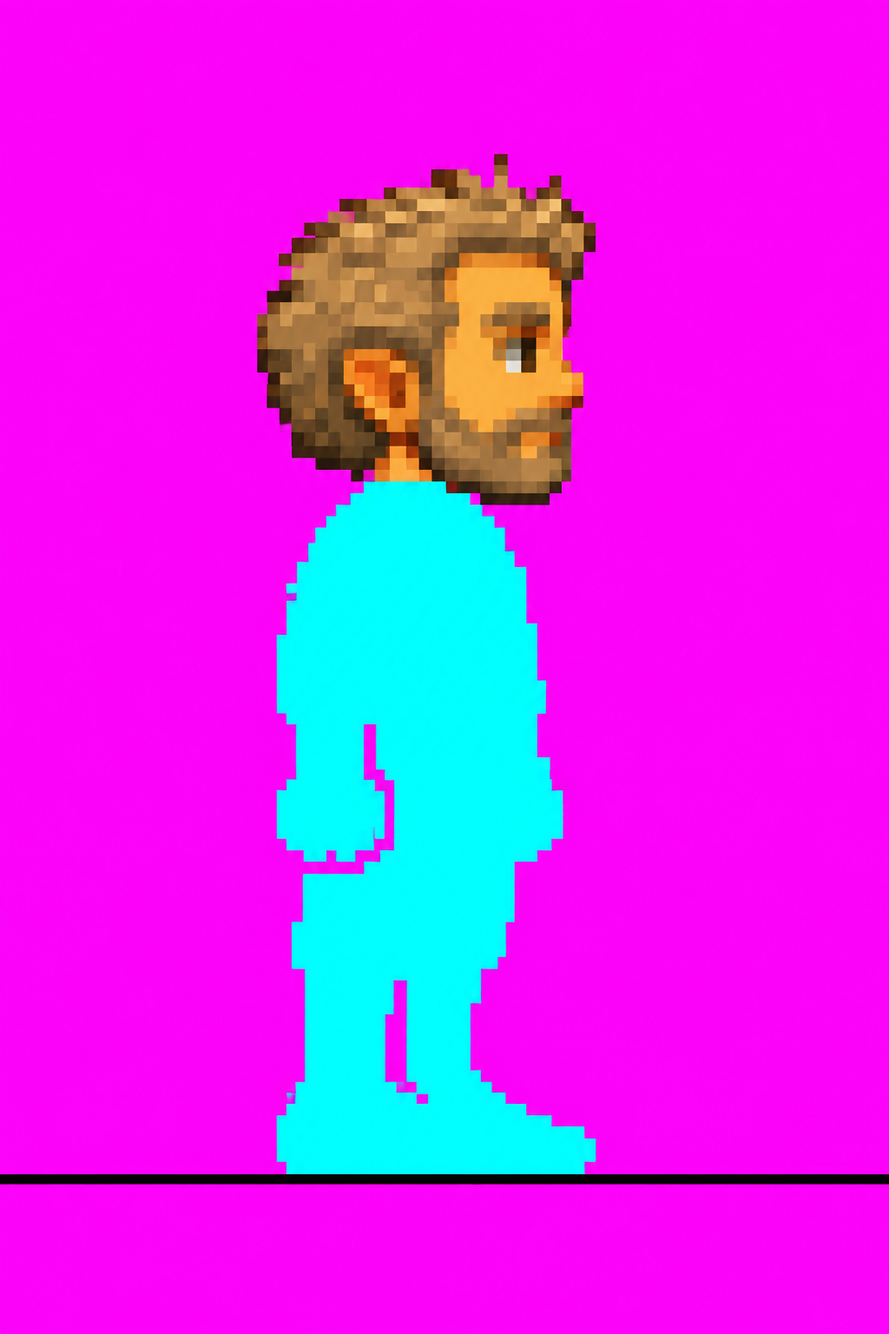
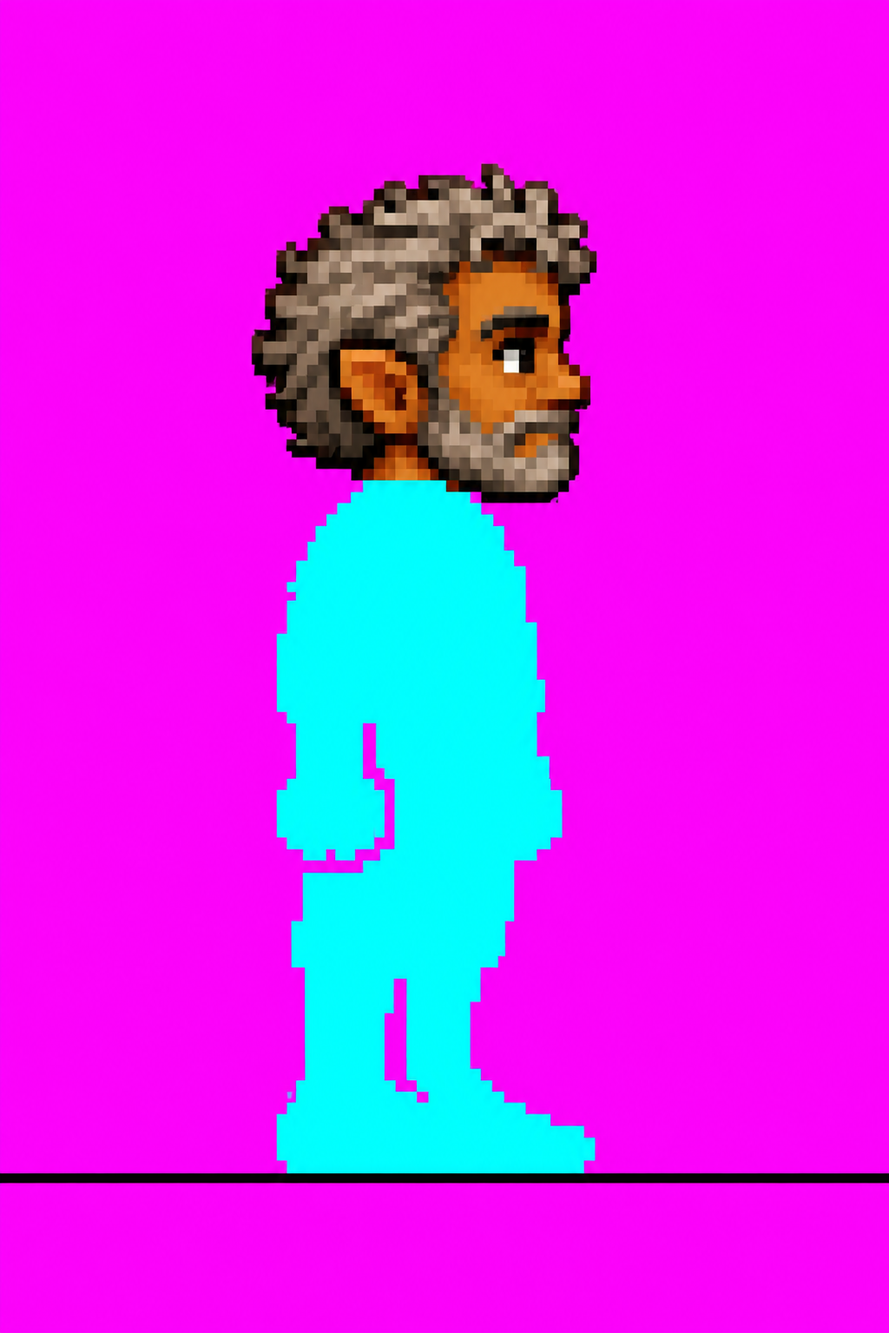
Versión 96: cabezas nuevas de Porru, Juan Pablo y Edo (ChatGPT), con su tono de piel en todo el cuerpo
Claude-Session: https://claude.ai/code/session_016LDX8s9ZoDhMCEDmCMU4bZ

diff --git a/public/index.html b/public/index.html
@@ -221,7 +221,7 @@ var SB_KEY = 'sb_publishable_1-eGqPkYOPKsW-ZEtUBo7A_16RQQGdK';
 var ATAJO = 'La Otra Comunidad';
 var STEPS_PER_KM = 1350, TOTAL_KM = 115;
 var LUGAR = {nombre:'Madrid', lat:40.43, lon:-3.81};
-var M = {"tramos": [[{"src": "assets/tramos/t1v_0.webp?v=162fa4d7", "y": -192, "v": 0.4, "hd": 3, "espejo": true}, {"src": "assets/tramos/t1v_1.webp?v=4642bb2a", "y": 209, "v": 1.0, "hd": 3, "espejo": true}], [{"src": "assets/tramos/t2v_0.webp?v=2ac7595f", "y": -192, "v": 0.4, "hd": 3, "espejo": true}, {"src": "assets/tramos/t2v_1.webp?v=07659e6a", "y": 209, "v": 1.0, "hd": 3, "espejo": true}], [{"src": "assets/tramos/t3v_0.webp?v=fb33aab2", "y": -192, "v": 0.4, "hd": 3, "espejo": true}, {"src": "assets/tramos/t3v_1.webp?v=42750449", "y": 209, "v": 1.0, "hd": 3, "espejo": true}], [{"src": "assets/tramos/t4v_0.webp?v=c2718a9c", "y": -192, "v": 0.4, "hd": 3, "espejo": true}, {"src": "assets/tramos/t4v_1.webp?v=0b370de7", "y": 209, "v": 1.0, "hd": 3, "espejo": true}], [{"src": "assets/tramos/t5_0.webp?v=f06aecc3", "y": 0, "v": 0.08}, {"src": "assets/tramos/t5_1.webp?v=f3abdd6c", "y": 31, "v": 0.3}, {"src": "assets/tramos/t5_2.webp?v=5110b3be", "y": 85, "v": 0.55}, {"src": "assets/tramos/t5_3.webp?v=a1aa4814", "y": 192, "v": 1.0}], [{"src": "assets/tramos/t6v_0.webp?v=380a0d06", "y": -192, "v": 0.4, "hd": 3, "espejo": true}, {"src": "assets/tramos/t6v_1.webp?v=ff66a92b", "y": 209, "v": 1.0, "hd": 3, "espejo": true}], [{"src": "assets/tramos/t7b_0.webp?v=4c93d6ac", "y": -192, "v": 0.4, "hd": 3, "espejo": true}, {"src": "assets/tramos/t7b_1.webp?v=16982fdd", "y": 210, "v": 1.0, "hd": 3, "espejo": true}], [{"src": "assets/tramos/t8b_0.webp?v=e0185a6c", "y": -192, "v": 0.4, "hd": 3, "espejo": true}, {"src": "assets/tramos/t8b_1.webp?v=5989f657", "y": 210, "v": 1.0, "hd": 3, "espejo": true}]], "arturo": ["assets/pj/arturo_normal.webp?v=7db8d380", "assets/pj/arturo_lluvia.webp?v=410e29f0", "assets/pj/arturo_noche.webp?v=a85f8b09", "assets/pj/arturo_calor.webp?v=5248314d"], "vecinos": ["assets/pj/vecino_1.webp?v=8c5299d1", "assets/pj/vecino_2.webp?v=0ad454f5", "assets/pj/vecino_3.webp?v=7460ffb8", "assets/pj/vecino_4.webp?v=a9dbcc5b"], "faces": "assets/pj/caras9.webp?v=749b1655", "logo": "assets/logo.webp?v=6e5698e6", "mj": {"pan": "assets/mj/zurron_pan.webp?v=eef983d0", "manta": "assets/mj/zurron_manta.webp?v=496c23db", "cuerda": "assets/mj/zurron_cuerda.webp?v=01c52897", "cantimplora": "assets/mj/zurron_cantimplora.webp?v=834316a1", "queso": "assets/mj/zurron_queso.webp?v=7897f985", "mapa": "assets/mj/zurron_mapa.webp?v=77a52314", "farol": "assets/mj/zurron_farol.webp?v=503f7f85", "pipa": "assets/mj/zurron_pipa.webp?v=ff72de42", "sillon": "assets/mj/zurron_sillon.webp?v=e2de97af", "reloj": "assets/mj/zurron_reloj.webp?v=f2e9850f", "cucharas": "assets/mj/zurron_cucharas.webp?v=ddf4903c", "paraguas": "assets/mj/zurron_paraguas.webp?v=29a8c29a", "jarron": "assets/mj/zurron_jarron.webp?v=0e426668", "libraco": "assets/mj/zurron_libraco.webp?v=d1d0c91f", "arbol": "assets/mj/arbol.webp?v=1d1e130a", "jinete1": "assets/mj/jinete1.webp?v=1bdb694e", "jinete2": "assets/mj/jinete2.webp?v=3dc1bbb4", "anillo": "assets/mj/anillo.webp?v=f785c169", "seta1": "assets/mj/seta1.webp?v=9166bdf3", "seta2": "assets/mj/seta2.webp?v=93212779", "seta3": "assets/mj/seta3.webp?v=a212aa81", "perro1": "assets/mj/perro1.webp?v=69bf8c3a", "perro2": "assets/mj/perro2.webp?v=b3a10435", "perro3": "assets/mj/perro3.webp?v=a5e4e2f7", "hoyo": "assets/mj/hoyo.webp?v=d29f43a1", "balsa1": "assets/mj/balsa1.webp?v=d45a7f5d", "balsa2": "assets/mj/balsa2.webp?v=d2719116", "rio": "assets/mj/rio.webp?v=aafc6b10", "muelle": "assets/mj/muelle.webp?v=592eaa57", "sombra": "assets/mj/sombra.webp?v=0652e012", "juncos": "assets/mj/juncos.webp?v=74e1fdc4"}, "papiro": "assets/papiro.webp?v=abe066ba", "andar": {"src": "assets/pj/arturo_andar.webp?v=7e62a290", "n": 6, "fw": 53.0, "h": 74}, "mapa": {"src": "assets/mapa2.webp?v=ce21c701", "w": 1200, "h": 4050, "ruta": [[596, 4048], [596, 4013], [456, 3532], [694, 3372], [745, 3094], [604, 2913], [623, 2816], [640, 2699], [655, 2640], [627, 2506], [603, 2143], [639, 1918], [609, 1630], [679, 1534], [656, 1331], [660, 1230], [677, 1154], [726, 1037], [658, 973], [578, 732], [641, 561], [507, 433], [615, 315], [654, 70], [654, 0]], "lugares": [[0, "Bols\u00f3n Cerrado", 4013], [5, "Delagua", 3532], [15, "Colinas Verdes", 3372], [35, "Bosque Cerrado", 3094], [55, "Atajo", 2913], [75, "La granja", 2816], [90, "Calzada", 2699], [110, "Balsadera", 2640], [115, "Cricava", 2506], [120, "La Cerca", 2143], [130, "Bosque Viejo", 1918], [145, "El Tornasauce", 1630], [150, "Casa de Tom Bombadil", 1534], [175, "Quebradas de los T\u00famulos", 1331], [200, "Camino del Este", 1230], [210, "Bree", 1154], [225, "Bosque de Chet", 1037], [250, "Pantanos de Moscagua", 973], [370, "Cima de los Vientos", 732], [530, "Puente \u00daltimo", 561], [600, "Landas de los Trolls", 433], [720, "Vado del Bruinen", 315], [740, "Rivendel", 70]]}, "equipo": {"capa": "assets/eq/capa.webp?v=0122b549", "sombrero": "assets/eq/sombrero.webp?v=f7dfac1a", "panuelo_sam": "assets/eq/panuelo_sam.webp?v=1a80a564", "cazo": "assets/eq/cazo.webp?v=22f7f48c", "broche": "assets/eq/broche.webp?v=6109e8ac", "panuelo_rojo": "assets/eq/panuelo_rojo.webp?v=fd15a308", "cantimplora_cinto": "assets/eq/cantimplora_cinto.webp?v=00c887d2", "pluma": "assets/eq/pluma.webp?v=1d6b2dd4", "gafas": "assets/eq/gafas.webp?v=0f0b85f1", "tiara": "assets/eq/tiara.webp?v=7de8e48f"}, "prologo": {"video": "assets/prologo/prologo.mp4?v=6f226176", "poster": "assets/prologo/poster.webp?v=0afee73e", "casa": "assets/prologo/casa.webp?v=e13a1dd5"}, "ilustraciones": ["assets/prologo/forja.webp?v=3a138e40", "assets/prologo/anillo.webp?v=0773b67f", "assets/prologo/guerra.webp?v=3dbb76a0", "assets/prologo/caido.webp?v=3f00fc99", "assets/prologo/rio.webp?v=f0525166", "assets/prologo/cueva.webp?v=53a6de1b", "assets/prologo/puerta.webp?v=9be18752", "assets/prologo/camino.webp?v=8554a997"], "npc": {"mago": ["assets/pj/mago_normal.webp?v=2dcb7716", "assets/pj/mago_lluvia.webp?v=3e964785", "assets/pj/mago_noche.webp?v=f6641a57", "assets/pj/mago_calor.webp?v=c90085e7"], "sombrero_azul": ["assets/pj/sombrero_azul_normal.webp?v=49dc044e", "assets/pj/sombrero_azul_lluvia.webp?v=dd90bf2a", "assets/pj/sombrero_azul_noche.webp?v=cf98f05d", "assets/pj/sombrero_azul_calor.webp?v=d65dd5f8"]}, "libro": {"0": "assets/libro/p1.webp?v=ef869ff9", "1": "assets/libro/p2.webp?v=6100887a", "2": "assets/libro/p3.webp?v=f87fd195", "3": "assets/libro/p4.webp?v=8c0c0014", "4": "assets/libro/p5.webp?v=a47588b7", "5": "assets/libro/p6.webp?v=7950004b", "6": "assets/libro/p7.webp?v=d7e44576", "7": "assets/libro/p8.webp?v=6766a419"}, "ropa": {"pantalon": "assets/pj/ropa_pantalon.webp?v=c61a7146", "capa": "assets/pj/ropa_capa.webp?v=e1faa8bf", "capa_f": "assets/pj/ropa_capa_f.webp?v=0c709b85", "capaFrame": {"fw": 84, "ox": -31}}, "props": {"senal": "assets/props/senal.webp?v=e7b2f572", "ovejas": "assets/props/ovejas.webp?v=311f376f", "carretilla": "assets/props/carretilla.webp?v=056e52f2", "piedra": "assets/props/piedra.webp?v=b27db386", "lena": "assets/props/lena.webp?v=4165f85f", "colmenas": "assets/props/colmenas.webp?v=b70b723c", "valla": "assets/props/valla.webp?v=4d295390", "setas": "assets/props/setas.webp?v=ce1dae4d", "pozo": "assets/props/pozo.webp?v=037c838e", "banco": "assets/props/banco.webp?v=c317202b", "zorro": "assets/props/zorro.webp?v=2bfaa8b8", "carro_heno": "assets/props/carro_heno.webp?v=d90f13e9"}, "escenas": [{"km": 9, "capas": [{"src": "assets/tramos/e09v_0.webp?v=9b272767", "y": -192, "v": 0.4, "hd": 3, "espejo": true}, {"src": "assets/tramos/e09v_1.webp?v=626f2e28", "y": 209, "v": 1.0, "hd": 3, "espejo": true}]}, {"km": 25, "capas": [{"src": "assets/tramos/e25_0.webp?v=f874360c", "y": -192, "v": 0.4, "hd": 3, "espejo": true}, {"src": "assets/tramos/e25_1.webp?v=dc8516e2", "y": 209, "v": 1.0, "hd": 3, "espejo": true}]}, {"km": 45, "capas": [{"src": "assets/tramos/e45_0.webp?v=0c496962", "y": -192, "v": 0.4, "hd": 3, "espejo": true}, {"src": "assets/tramos/e45_1.webp?v=f8b71963", "y": 209, "v": 1.0, "hd": 3, "espejo": true}]}, {"km": 65, "capas": [{"src": "assets/tramos/e65_0.webp?v=a730a4cb", "y": -192, "v": 0.4, "hd": 3, "espejo": true}, {"src": "assets/tramos/e65_1.webp?v=af390ea6", "y": 209, "v": 1.0, "hd": 3, "espejo": true}]}, {"km": 80, "capas": [{"src": "assets/tramos/e80_0.webp?v=2ae90a84", "y": -192, "v": 0.4, "hd": 3, "espejo": true}, {"src": "assets/tramos/e80_1.webp?v=656134e8", "y": 209, "v": 1.0, "hd": 3, "espejo": true}]}, {"km": 100, "capas": [{"src": "assets/tramos/e100_0.webp?v=96b4d4c3", "y": -192, "v": 0.4, "hd": 3, "espejo": true}, {"src": "assets/tramos/e100_1.webp?v=ff63ade0", "y": 209, "v": 1.0, "hd": 3, "espejo": true}]}, {"km": 113, "capas": [{"src": "assets/tramos/e113_0.webp?v=2f8c2840", "y": -192, "v": 0.4, "hd": 3, "espejo": true}, {"src": "assets/tramos/e113_1.webp?v=343cbb60", "y": 209, "v": 1.0, "hd": 3, "espejo": true}]}], "objetos": {"casa": "assets/mj/obj_casa.webp?v=11955867", "pipa": "assets/mj/obj_pipa.webp?v=9310f0ce", "hoja": "assets/mj/obj_hoja.webp?v=a4fb68a5", "estrella": "assets/mj/obj_estrella.webp?v=2718a702", "cayado": "assets/mj/obj_cayado.webp?v=346609ad", "cesta": "assets/mj/obj_cesta.webp?v=d1e05991", "farol": "assets/mj/obj_farol.webp?v=3c67590e", "balsa": "assets/mj/obj_balsa.webp?v=fcd81db0"}, "ropaIco": {"capa": "assets/eq/capa.webp?v=0122b549", "capa_verde": "assets/eq/capa_verde.webp?v=b5cc373a", "capa_granate": "assets/eq/capa_granate.webp?v=ec0bde53", "capa_gris": "assets/eq/capa_gris.webp?v=d2a75931", "pant_verde": "assets/eq/pant_verde.webp?v=1b3a8a49", "pant_azul": "assets/eq/pant_azul.webp?v=873e7563", "pant_gris": "assets/eq/pant_gris.webp?v=dc39d40e", "pant_mostaza": "assets/eq/pant_mostaza.webp?v=a53bb81c"}, "andarPJ": {"fer": {"src": "assets/pj/andar_fer.webp?v=a1960a01", "pantalon": "assets/pj/ropa_pantalon_fer.webp?v=ddc157ee", "capa": "assets/pj/ropa_capa_fer.webp?v=4ec3bc47", "capa_f": "assets/pj/ropa_capa_f_fer.webp?v=16a7a4cc", "n": 8, "ms": 160, "vel": 0.0356, "dx": [0, -3, 2, 2, -3, -3, 3, 4]}, "patri": {"src": "assets/pj/andar_patri.webp?v=6ce8bf24", "pantalon": "assets/pj/ropa_pantalon_patri.webp?v=3f92d97d", "capa": "assets/pj/ropa_capa_patri.webp?v=69ac1f75", "capa_f": "assets/pj/ropa_capa_f_patri.webp?v=a9eb8c68", "n": 8, "ms": 160, "vel": 0.0356, "dx": [0, -3, 2, 2, -3, -3, 3, 4]}, "juanpablo": {"src": "assets/pj/andar_juanpablo.webp?v=c89365f6", "pantalon": "assets/pj/ropa_pantalon_juanpablo.webp?v=eabcf1f7", "capa": "assets/pj/ropa_capa_juanpablo.webp?v=ef786ba2", "capa_f": "assets/pj/ropa_capa_f_juanpablo.webp?v=084549cb", "n": 8, "ms": 160, "vel": 0.0356, "dx": [0, 0, 0, 0, 0, 0, 0, 0]}, "arturo": {"src": "assets/pj/andar_arturo.webp?v=c15a4cbf", "pantalon": "assets/pj/ropa_pantalon_arturo.webp?v=5fb87995", "capa": "assets/pj/ropa_capa_arturo.webp?v=0658b58c", "capa_f": "assets/pj/ropa_capa_f_arturo.webp?v=f4b0b94a", "n": 8, "ms": 160, "vel": 0.0344, "dx": [0, -4, 0, 4, 0, -4, 0, 4]}, "edo": {"src": "assets/pj/andar_edo.webp?v=874feaf0", "pantalon": "assets/pj/ropa_pantalon_edo.webp?v=be0ca919", "capa": "assets/pj/ropa_capa_edo.webp?v=16ef3acf", "capa_f": "assets/pj/ropa_capa_f_edo.webp?v=50e3d11f", "n": 8, "ms": 160, "vel": 0.0344, "dx": [0, -4, 0, 4, 0, -4, 0, 4]}}, "menu": {"forja": "assets/menu/forja.webp?v=32eaa4c1", "anillo": "assets/menu/anillo.webp?v=2edff033", "chispas": {"src": "assets/menu/chispas.webp?v=7a0e8284", "n": 6, "fw": 125, "h": 262}, "herrero": {"src": "assets/menu/herrero.webp?v=8d4a16d2", "n": 4, "fw": 320, "h": 295}}, "ui": {"redondo": "assets/ui/redondo.webp?v=553a38ab", "redondo_on": "assets/ui/redondo_on.webp?v=d47c1e86", "largo": "assets/ui/largo.webp?v=21b6a8ab", "largo_on": "assets/ui/largo_on.webp?v=b4d3082f", "i_mapa": "assets/ui/i_mapa.webp?v=baf5a951", "i_libro": "assets/ui/i_libro.webp?v=65e306af", "i_comunidad": "assets/ui/i_comunidad.webp?v=ba394914", "i_zurron": "assets/ui/i_zurron.webp?v=801f3a01", "i_sync": "assets/ui/i_sync.webp?v=56462d84", "i_hoja": "assets/ui/i_hoja.webp?v=f8fe9299", "placa_pasos": "assets/ui/placa_pasos.webp?v=12bec8e1", "destellos": "assets/ui/destellos.webp?v=b74326dc", "fondo_menu": "assets/ui/fondo_menu.webp?v=0cf7211a", "hoja_menu": "assets/ui/hoja_menu.webp?v=82f13f93"}, "facesN": 9, "quietoPJ": {"fer": {"src": "assets/pj/quieto_fer.webp?v=2d287b87", "pantalon": "assets/pj/ropa_pantalon_quieto_fer.webp?v=2a5fa9ec", "capa": "assets/pj/ropa_capa_quieto_fer.webp?v=748a63a8", "capa_f": "assets/pj/ropa_capa_f_quieto_fer.webp?v=9d786b24", "n": 4, "ms": 450}, "patri": {"src": "assets/pj/quieto_patri.webp?v=e8935790", "pantalon": "assets/pj/ropa_pantalon_quieto_patri.webp?v=b4969e48", "capa": "assets/pj/ropa_capa_quieto_patri.webp?v=26634d11", "capa_f": "assets/pj/ropa_capa_f_quieto_patri.webp?v=328aff4d", "n": 4, "ms": 450}, "adrian": {"src": "assets/pj/quieto_adrian.webp?v=b81deb89", "pantalon": "assets/pj/ropa_pantalon_quieto_adrian.webp?v=5525cad1", "capa": "assets/pj/ropa_capa_quieto_adrian.webp?v=a22c0b8a", "capa_f": "assets/pj/ropa_capa_f_quieto_adrian.webp?v=6c51806e", "n": 4, "ms": 450}, "carlos": {"src": "assets/pj/quieto_carlos.webp?v=c5a30670", "pantalon": "assets/pj/ropa_pantalon_quieto_carlos.webp?v=b82e99a6", "capa": "assets/pj/ropa_capa_quieto_carlos.webp?v=5d3f98c6", "capa_f": "assets/pj/ropa_capa_f_quieto_carlos.webp?v=d8920044", "n": 4, "ms": 450}, "juanpablo": {"src": "assets/pj/quieto_juanpablo.webp?v=6e704838", "pantalon": "assets/pj/ropa_pantalon_quieto_juanpablo.webp?v=cd8fb44e", "capa": "assets/pj/ropa_capa_quieto_juanpablo.webp?v=c7daa765", "capa_f": "assets/pj/ropa_capa_f_quieto_juanpablo.webp?v=383cb623", "n": 4, "ms": 450}, "arturo": {"src": "assets/pj/quieto_arturo.webp?v=a137794f", "pantalon": "assets/pj/ropa_pantalon_quieto_arturo.webp?v=41e5d86c", "capa": "assets/pj/ropa_capa_quieto_arturo.webp?v=4d687a5b", "capa_f": "assets/pj/ropa_capa_f_quieto_arturo.webp?v=31b81915", "n": 4, "ms": 450}, "edo": {"src": "assets/pj/quieto_edo.webp?v=25a809fa", "pantalon": "assets/pj/ropa_pantalon_quieto_edo.webp?v=ec1ecdb7", "capa": "assets/pj/ropa_capa_quieto_edo.webp?v=f5d0127d", "capa_f": "assets/pj/ropa_capa_f_quieto_edo.webp?v=ff69cc07", "n": 4, "ms": 450}}, "fp": [{"tramo": 3, "fondo": "assets/fp/bosque_fondo.webp?v=d94309cc", "delante": "assets/fp/bosque_delante.webp?v=4903fead", "manos": {"src": "assets/fp/manos.webp?v=7ba225f5", "n": 4, "fw": 325, "h": 434}, "fuga": [0.5, 0.56], "luces": [[0.47, 0.565], [0.51, 0.548], [0.545, 0.565], [0.455, 0.575]], "hasta": 45}], "escenaElfos": ["assets/escenas/elfos1.webp?v=821cfc4d", "assets/escenas/elfos2.webp?v=a89595ed", "assets/escenas/elfos3.webp?v=2f3b37c6"], "entreactos": {"1": {"video": "assets/entreactos/acto1.mp4?v=24d497d1", "poster": "assets/entreactos/acto1.webp?v=4f4a3739"}}, "capas": {"capas": {"cuerpo": "assets/pj/capas/cuerpo.webp?v=66200e3b", "capa": "assets/pj/capas/capa.webp?v=2d14e53d", "pantalon": "assets/pj/capas/pantalon.webp?v=fc330ced", "mochila": "assets/pj/capas/mochila.webp?v=8a00b540", "cantimplora": "assets/pj/capas/cantimplora.webp?v=6987245d"}, "cabezas": {"arturo": "assets/pj/capas/cab_arturo.webp?v=1ed4cbca", "fer": "assets/pj/capas/cab_fer.webp?v=3dbdbf4b", "patri": "assets/pj/capas/cab_patri.webp?v=3274e893", "edo": "assets/pj/capas/cab_edo.webp?v=49a540d3", "carlos": "assets/pj/capas/cab_carlos.webp?v=8df36d33", "porru": "assets/pj/capas/cab_porru.webp?v=e6b0800e", "adrian": "assets/pj/capas/cab_adrian.webp?v=f71e7843", "rodri": "assets/pj/capas/cab_rodri.webp?v=dce1015d", "juanpablo": "assets/pj/capas/cab_juanpablo.webp?v=2577ae26"}, "piel": {"arturo": [247, 153, 63], "fer": [248, 168, 80], "patri": [244, 164, 68], "edo": [227, 149, 65], "carlos": [242, 166, 70], "porru": [235, 155, 73], "adrian": [237, 163, 84], "rodri": [248, 179, 100], "juanpablo": [241, 170, 69]}, "piel_cuerpo": [252, 173, 121]}};
+var M = {"tramos": [[{"src": "assets/tramos/t1v_0.webp?v=162fa4d7", "y": -192, "v": 0.4, "hd": 3, "espejo": true}, {"src": "assets/tramos/t1v_1.webp?v=4642bb2a", "y": 209, "v": 1.0, "hd": 3, "espejo": true}], [{"src": "assets/tramos/t2v_0.webp?v=2ac7595f", "y": -192, "v": 0.4, "hd": 3, "espejo": true}, {"src": "assets/tramos/t2v_1.webp?v=07659e6a", "y": 209, "v": 1.0, "hd": 3, "espejo": true}], [{"src": "assets/tramos/t3v_0.webp?v=fb33aab2", "y": -192, "v": 0.4, "hd": 3, "espejo": true}, {"src": "assets/tramos/t3v_1.webp?v=42750449", "y": 209, "v": 1.0, "hd": 3, "espejo": true}], [{"src": "assets/tramos/t4v_0.webp?v=c2718a9c", "y": -192, "v": 0.4, "hd": 3, "espejo": true}, {"src": "assets/tramos/t4v_1.webp?v=0b370de7", "y": 209, "v": 1.0, "hd": 3, "espejo": true}], [{"src": "assets/tramos/t5_0.webp?v=f06aecc3", "y": 0, "v": 0.08}, {"src": "assets/tramos/t5_1.webp?v=f3abdd6c", "y": 31, "v": 0.3}, {"src": "assets/tramos/t5_2.webp?v=5110b3be", "y": 85, "v": 0.55}, {"src": "assets/tramos/t5_3.webp?v=a1aa4814", "y": 192, "v": 1.0}], [{"src": "assets/tramos/t6v_0.webp?v=380a0d06", "y": -192, "v": 0.4, "hd": 3, "espejo": true}, {"src": "assets/tramos/t6v_1.webp?v=ff66a92b", "y": 209, "v": 1.0, "hd": 3, "espejo": true}], [{"src": "assets/tramos/t7b_0.webp?v=4c93d6ac", "y": -192, "v": 0.4, "hd": 3, "espejo": true}, {"src": "assets/tramos/t7b_1.webp?v=16982fdd", "y": 210, "v": 1.0, "hd": 3, "espejo": true}], [{"src": "assets/tramos/t8b_0.webp?v=e0185a6c", "y": -192, "v": 0.4, "hd": 3, "espejo": true}, {"src": "assets/tramos/t8b_1.webp?v=5989f657", "y": 210, "v": 1.0, "hd": 3, "espejo": true}]], "arturo": ["assets/pj/arturo_normal.webp?v=7db8d380", "assets/pj/arturo_lluvia.webp?v=410e29f0", "assets/pj/arturo_noche.webp?v=a85f8b09", "assets/pj/arturo_calor.webp?v=5248314d"], "vecinos": ["assets/pj/vecino_1.webp?v=8c5299d1", "assets/pj/vecino_2.webp?v=0ad454f5", "assets/pj/vecino_3.webp?v=7460ffb8", "assets/pj/vecino_4.webp?v=a9dbcc5b"], "faces": "assets/pj/caras9.webp?v=749b1655", "logo": "assets/logo.webp?v=6e5698e6", "mj": {"pan": "assets/mj/zurron_pan.webp?v=eef983d0", "manta": "assets/mj/zurron_manta.webp?v=496c23db", "cuerda": "assets/mj/zurron_cuerda.webp?v=01c52897", "cantimplora": "assets/mj/zurron_cantimplora.webp?v=834316a1", "queso": "assets/mj/zurron_queso.webp?v=7897f985", "mapa": "assets/mj/zurron_mapa.webp?v=77a52314", "farol": "assets/mj/zurron_farol.webp?v=503f7f85", "pipa": "assets/mj/zurron_pipa.webp?v=ff72de42", "sillon": "assets/mj/zurron_sillon.webp?v=e2de97af", "reloj": "assets/mj/zurron_reloj.webp?v=f2e9850f", "cucharas": "assets/mj/zurron_cucharas.webp?v=ddf4903c", "paraguas": "assets/mj/zurron_paraguas.webp?v=29a8c29a", "jarron": "assets/mj/zurron_jarron.webp?v=0e426668", "libraco": "assets/mj/zurron_libraco.webp?v=d1d0c91f", "arbol": "assets/mj/arbol.webp?v=1d1e130a", "jinete1": "assets/mj/jinete1.webp?v=1bdb694e", "jinete2": "assets/mj/jinete2.webp?v=3dc1bbb4", "anillo": "assets/mj/anillo.webp?v=f785c169", "seta1": "assets/mj/seta1.webp?v=9166bdf3", "seta2": "assets/mj/seta2.webp?v=93212779", "seta3": "assets/mj/seta3.webp?v=a212aa81", "perro1": "assets/mj/perro1.webp?v=69bf8c3a", "perro2": "assets/mj/perro2.webp?v=b3a10435", "perro3": "assets/mj/perro3.webp?v=a5e4e2f7", "hoyo": "assets/mj/hoyo.webp?v=d29f43a1", "balsa1": "assets/mj/balsa1.webp?v=d45a7f5d", "balsa2": "assets/mj/balsa2.webp?v=d2719116", "rio": "assets/mj/rio.webp?v=aafc6b10", "muelle": "assets/mj/muelle.webp?v=592eaa57", "sombra": "assets/mj/sombra.webp?v=0652e012", "juncos": "assets/mj/juncos.webp?v=74e1fdc4"}, "papiro": "assets/papiro.webp?v=abe066ba", "andar": {"src": "assets/pj/arturo_andar.webp?v=7e62a290", "n": 6, "fw": 53.0, "h": 74}, "mapa": {"src": "assets/mapa2.webp?v=ce21c701", "w": 1200, "h": 4050, "ruta": [[596, 4048], [596, 4013], [456, 3532], [694, 3372], [745, 3094], [604, 2913], [623, 2816], [640, 2699], [655, 2640], [627, 2506], [603, 2143], [639, 1918], [609, 1630], [679, 1534], [656, 1331], [660, 1230], [677, 1154], [726, 1037], [658, 973], [578, 732], [641, 561], [507, 433], [615, 315], [654, 70], [654, 0]], "lugares": [[0, "Bols\u00f3n Cerrado", 4013], [5, "Delagua", 3532], [15, "Colinas Verdes", 3372], [35, "Bosque Cerrado", 3094], [55, "Atajo", 2913], [75, "La granja", 2816], [90, "Calzada", 2699], [110, "Balsadera", 2640], [115, "Cricava", 2506], [120, "La Cerca", 2143], [130, "Bosque Viejo", 1918], [145, "El Tornasauce", 1630], [150, "Casa de Tom Bombadil", 1534], [175, "Quebradas de los T\u00famulos", 1331], [200, "Camino del Este", 1230], [210, "Bree", 1154], [225, "Bosque de Chet", 1037], [250, "Pantanos de Moscagua", 973], [370, "Cima de los Vientos", 732], [530, "Puente \u00daltimo", 561], [600, "Landas de los Trolls", 433], [720, "Vado del Bruinen", 315], [740, "Rivendel", 70]]}, "equipo": {"capa": "assets/eq/capa.webp?v=0122b549", "sombrero": "assets/eq/sombrero.webp?v=f7dfac1a", "panuelo_sam": "assets/eq/panuelo_sam.webp?v=1a80a564", "cazo": "assets/eq/cazo.webp?v=22f7f48c", "broche": "assets/eq/broche.webp?v=6109e8ac", "panuelo_rojo": "assets/eq/panuelo_rojo.webp?v=fd15a308", "cantimplora_cinto": "assets/eq/cantimplora_cinto.webp?v=00c887d2", "pluma": "assets/eq/pluma.webp?v=1d6b2dd4", "gafas": "assets/eq/gafas.webp?v=0f0b85f1", "tiara": "assets/eq/tiara.webp?v=7de8e48f"}, "prologo": {"video": "assets/prologo/prologo.mp4?v=6f226176", "poster": "assets/prologo/poster.webp?v=0afee73e", "casa": "assets/prologo/casa.webp?v=e13a1dd5"}, "ilustraciones": ["assets/prologo/forja.webp?v=3a138e40", "assets/prologo/anillo.webp?v=0773b67f", "assets/prologo/guerra.webp?v=3dbb76a0", "assets/prologo/caido.webp?v=3f00fc99", "assets/prologo/rio.webp?v=f0525166", "assets/prologo/cueva.webp?v=53a6de1b", "assets/prologo/puerta.webp?v=9be18752", "assets/prologo/camino.webp?v=8554a997"], "npc": {"mago": ["assets/pj/mago_normal.webp?v=2dcb7716", "assets/pj/mago_lluvia.webp?v=3e964785", "assets/pj/mago_noche.webp?v=f6641a57", "assets/pj/mago_calor.webp?v=c90085e7"], "sombrero_azul": ["assets/pj/sombrero_azul_normal.webp?v=49dc044e", "assets/pj/sombrero_azul_lluvia.webp?v=dd90bf2a", "assets/pj/sombrero_azul_noche.webp?v=cf98f05d", "assets/pj/sombrero_azul_calor.webp?v=d65dd5f8"]}, "libro": {"0": "assets/libro/p1.webp?v=ef869ff9", "1": "assets/libro/p2.webp?v=6100887a", "2": "assets/libro/p3.webp?v=f87fd195", "3": "assets/libro/p4.webp?v=8c0c0014", "4": "assets/libro/p5.webp?v=a47588b7", "5": "assets/libro/p6.webp?v=7950004b", "6": "assets/libro/p7.webp?v=d7e44576", "7": "assets/libro/p8.webp?v=6766a419"}, "ropa": {"pantalon": "assets/pj/ropa_pantalon.webp?v=c61a7146", "capa": "assets/pj/ropa_capa.webp?v=e1faa8bf", "capa_f": "assets/pj/ropa_capa_f.webp?v=0c709b85", "capaFrame": {"fw": 84, "ox": -31}}, "props": {"senal": "assets/props/senal.webp?v=e7b2f572", "ovejas": "assets/props/ovejas.webp?v=311f376f", "carretilla": "assets/props/carretilla.webp?v=056e52f2", "piedra": "assets/props/piedra.webp?v=b27db386", "lena": "assets/props/lena.webp?v=4165f85f", "colmenas": "assets/props/colmenas.webp?v=b70b723c", "valla": "assets/props/valla.webp?v=4d295390", "setas": "assets/props/setas.webp?v=ce1dae4d", "pozo": "assets/props/pozo.webp?v=037c838e", "banco": "assets/props/banco.webp?v=c317202b", "zorro": "assets/props/zorro.webp?v=2bfaa8b8", "carro_heno": "assets/props/carro_heno.webp?v=d90f13e9"}, "escenas": [{"km": 9, "capas": [{"src": "assets/tramos/e09v_0.webp?v=9b272767", "y": -192, "v": 0.4, "hd": 3, "espejo": true}, {"src": "assets/tramos/e09v_1.webp?v=626f2e28", "y": 209, "v": 1.0, "hd": 3, "espejo": true}]}, {"km": 25, "capas": [{"src": "assets/tramos/e25_0.webp?v=f874360c", "y": -192, "v": 0.4, "hd": 3, "espejo": true}, {"src": "assets/tramos/e25_1.webp?v=dc8516e2", "y": 209, "v": 1.0, "hd": 3, "espejo": true}]}, {"km": 45, "capas": [{"src": "assets/tramos/e45_0.webp?v=0c496962", "y": -192, "v": 0.4, "hd": 3, "espejo": true}, {"src": "assets/tramos/e45_1.webp?v=f8b71963", "y": 209, "v": 1.0, "hd": 3, "espejo": true}]}, {"km": 65, "capas": [{"src": "assets/tramos/e65_0.webp?v=a730a4cb", "y": -192, "v": 0.4, "hd": 3, "espejo": true}, {"src": "assets/tramos/e65_1.webp?v=af390ea6", "y": 209, "v": 1.0, "hd": 3, "espejo": true}]}, {"km": 80, "capas": [{"src": "assets/tramos/e80_0.webp?v=2ae90a84", "y": -192, "v": 0.4, "hd": 3, "espejo": true}, {"src": "assets/tramos/e80_1.webp?v=656134e8", "y": 209, "v": 1.0, "hd": 3, "espejo": true}]}, {"km": 100, "capas": [{"src": "assets/tramos/e100_0.webp?v=96b4d4c3", "y": -192, "v": 0.4, "hd": 3, "espejo": true}, {"src": "assets/tramos/e100_1.webp?v=ff63ade0", "y": 209, "v": 1.0, "hd": 3, "espejo": true}]}, {"km": 113, "capas": [{"src": "assets/tramos/e113_0.webp?v=2f8c2840", "y": -192, "v": 0.4, "hd": 3, "espejo": true}, {"src": "assets/tramos/e113_1.webp?v=343cbb60", "y": 209, "v": 1.0, "hd": 3, "espejo": true}]}], "objetos": {"casa": "assets/mj/obj_casa.webp?v=11955867", "pipa": "assets/mj/obj_pipa.webp?v=9310f0ce", "hoja": "assets/mj/obj_hoja.webp?v=a4fb68a5", "estrella": "assets/mj/obj_estrella.webp?v=2718a702", "cayado": "assets/mj/obj_cayado.webp?v=346609ad", "cesta": "assets/mj/obj_cesta.webp?v=d1e05991", "farol": "assets/mj/obj_farol.webp?v=3c67590e", "balsa": "assets/mj/obj_balsa.webp?v=fcd81db0"}, "ropaIco": {"capa": "assets/eq/capa.webp?v=0122b549", "capa_verde": "assets/eq/capa_verde.webp?v=b5cc373a", "capa_granate": "assets/eq/capa_granate.webp?v=ec0bde53", "capa_gris": "assets/eq/capa_gris.webp?v=d2a75931", "pant_verde": "assets/eq/pant_verde.webp?v=1b3a8a49", "pant_azul": "assets/eq/pant_azul.webp?v=873e7563", "pant_gris": "assets/eq/pant_gris.webp?v=dc39d40e", "pant_mostaza": "assets/eq/pant_mostaza.webp?v=a53bb81c"}, "andarPJ": {"fer": {"src": "assets/pj/andar_fer.webp?v=a1960a01", "pantalon": "assets/pj/ropa_pantalon_fer.webp?v=ddc157ee", "capa": "assets/pj/ropa_capa_fer.webp?v=4ec3bc47", "capa_f": "assets/pj/ropa_capa_f_fer.webp?v=16a7a4cc", "n": 8, "ms": 160, "vel": 0.0356, "dx": [0, -3, 2, 2, -3, -3, 3, 4]}, "patri": {"src": "assets/pj/andar_patri.webp?v=6ce8bf24", "pantalon": "assets/pj/ropa_pantalon_patri.webp?v=3f92d97d", "capa": "assets/pj/ropa_capa_patri.webp?v=69ac1f75", "capa_f": "assets/pj/ropa_capa_f_patri.webp?v=a9eb8c68", "n": 8, "ms": 160, "vel": 0.0356, "dx": [0, -3, 2, 2, -3, -3, 3, 4]}, "juanpablo": {"src": "assets/pj/andar_juanpablo.webp?v=c89365f6", "pantalon": "assets/pj/ropa_pantalon_juanpablo.webp?v=eabcf1f7", "capa": "assets/pj/ropa_capa_juanpablo.webp?v=ef786ba2", "capa_f": "assets/pj/ropa_capa_f_juanpablo.webp?v=084549cb", "n": 8, "ms": 160, "vel": 0.0356, "dx": [0, 0, 0, 0, 0, 0, 0, 0]}, "arturo": {"src": "assets/pj/andar_arturo.webp?v=c15a4cbf", "pantalon": "assets/pj/ropa_pantalon_arturo.webp?v=5fb87995", "capa": "assets/pj/ropa_capa_arturo.webp?v=0658b58c", "capa_f": "assets/pj/ropa_capa_f_arturo.webp?v=f4b0b94a", "n": 8, "ms": 160, "vel": 0.0344, "dx": [0, -4, 0, 4, 0, -4, 0, 4]}, "edo": {"src": "assets/pj/andar_edo.webp?v=874feaf0", "pantalon": "assets/pj/ropa_pantalon_edo.webp?v=be0ca919", "capa": "assets/pj/ropa_capa_edo.webp?v=16ef3acf", "capa_f": "assets/pj/ropa_capa_f_edo.webp?v=50e3d11f", "n": 8, "ms": 160, "vel": 0.0344, "dx": [0, -4, 0, 4, 0, -4, 0, 4]}}, "menu": {"forja": "assets/menu/forja.webp?v=32eaa4c1", "anillo": "assets/menu/anillo.webp?v=2edff033", "chispas": {"src": "assets/menu/chispas.webp?v=7a0e8284", "n": 6, "fw": 125, "h": 262}, "herrero": {"src": "assets/menu/herrero.webp?v=8d4a16d2", "n": 4, "fw": 320, "h": 295}}, "ui": {"redondo": "assets/ui/redondo.webp?v=553a38ab", "redondo_on": "assets/ui/redondo_on.webp?v=d47c1e86", "largo": "assets/ui/largo.webp?v=21b6a8ab", "largo_on": "assets/ui/largo_on.webp?v=b4d3082f", "i_mapa": "assets/ui/i_mapa.webp?v=baf5a951", "i_libro": "assets/ui/i_libro.webp?v=65e306af", "i_comunidad": "assets/ui/i_comunidad.webp?v=ba394914", "i_zurron": "assets/ui/i_zurron.webp?v=801f3a01", "i_sync": "assets/ui/i_sync.webp?v=56462d84", "i_hoja": "assets/ui/i_hoja.webp?v=f8fe9299", "placa_pasos": "assets/ui/placa_pasos.webp?v=12bec8e1", "destellos": "assets/ui/destellos.webp?v=b74326dc", "fondo_menu": "assets/ui/fondo_menu.webp?v=0cf7211a", "hoja_menu": "assets/ui/hoja_menu.webp?v=82f13f93"}, "facesN": 9, "quietoPJ": {"fer": {"src": "assets/pj/quieto_fer.webp?v=2d287b87", "pantalon": "assets/pj/ropa_pantalon_quieto_fer.webp?v=2a5fa9ec", "capa": "assets/pj/ropa_capa_quieto_fer.webp?v=748a63a8", "capa_f": "assets/pj/ropa_capa_f_quieto_fer.webp?v=9d786b24", "n": 4, "ms": 450}, "patri": {"src": "assets/pj/quieto_patri.webp?v=e8935790", "pantalon": "assets/pj/ropa_pantalon_quieto_patri.webp?v=b4969e48", "capa": "assets/pj/ropa_capa_quieto_patri.webp?v=26634d11", "capa_f": "assets/pj/ropa_capa_f_quieto_patri.webp?v=328aff4d", "n": 4, "ms": 450}, "adrian": {"src": "assets/pj/quieto_adrian.webp?v=b81deb89", "pantalon": "assets/pj/ropa_pantalon_quieto_adrian.webp?v=5525cad1", "capa": "assets/pj/ropa_capa_quieto_adrian.webp?v=a22c0b8a", "capa_f": "assets/pj/ropa_capa_f_quieto_adrian.webp?v=6c51806e", "n": 4, "ms": 450}, "carlos": {"src": "assets/pj/quieto_carlos.webp?v=c5a30670", "pantalon": "assets/pj/ropa_pantalon_quieto_carlos.webp?v=b82e99a6", "capa": "assets/pj/ropa_capa_quieto_carlos.webp?v=5d3f98c6", "capa_f": "assets/pj/ropa_capa_f_quieto_carlos.webp?v=d8920044", "n": 4, "ms": 450}, "juanpablo": {"src": "assets/pj/quieto_juanpablo.webp?v=6e704838", "pantalon": "assets/pj/ropa_pantalon_quieto_juanpablo.webp?v=cd8fb44e", "capa": "assets/pj/ropa_capa_quieto_juanpablo.webp?v=c7daa765", "capa_f": "assets/pj/ropa_capa_f_quieto_juanpablo.webp?v=383cb623", "n": 4, "ms": 450}, "arturo": {"src": "assets/pj/quieto_arturo.webp?v=a137794f", "pantalon": "assets/pj/ropa_pantalon_quieto_arturo.webp?v=41e5d86c", "capa": "assets/pj/ropa_capa_quieto_arturo.webp?v=4d687a5b", "capa_f": "assets/pj/ropa_capa_f_quieto_arturo.webp?v=31b81915", "n": 4, "ms": 450}, "edo": {"src": "assets/pj/quieto_edo.webp?v=25a809fa", "pantalon": "assets/pj/ropa_pantalon_quieto_edo.webp?v=ec1ecdb7", "capa": "assets/pj/ropa_capa_quieto_edo.webp?v=f5d0127d", "capa_f": "assets/pj/ropa_capa_f_quieto_edo.webp?v=ff69cc07", "n": 4, "ms": 450}}, "fp": [{"tramo": 3, "fondo": "assets/fp/bosque_fondo.webp?v=d94309cc", "delante": "assets/fp/bosque_delante.webp?v=4903fead", "manos": {"src": "assets/fp/manos.webp?v=7ba225f5", "n": 4, "fw": 325, "h": 434}, "fuga": [0.5, 0.56], "luces": [[0.47, 0.565], [0.51, 0.548], [0.545, 0.565], [0.455, 0.575]], "hasta": 45}], "escenaElfos": ["assets/escenas/elfos1.webp?v=821cfc4d", "assets/escenas/elfos2.webp?v=a89595ed", "assets/escenas/elfos3.webp?v=2f3b37c6"], "entreactos": {"1": {"video": "assets/entreactos/acto1.mp4?v=24d497d1", "poster": "assets/entreactos/acto1.webp?v=4f4a3739"}}, "capas": {"capas": {"cuerpo": "assets/pj/capas/cuerpo.webp?v=66200e3b", "capa": "assets/pj/capas/capa.webp?v=2d14e53d", "pantalon": "assets/pj/capas/pantalon.webp?v=fc330ced", "mochila": "assets/pj/capas/mochila.webp?v=8a00b540", "cantimplora": "assets/pj/capas/cantimplora.webp?v=6987245d"}, "cabezas": {"arturo": "assets/pj/capas/cab_arturo.webp?v=43603668", "fer": "assets/pj/capas/cab_fer.webp?v=ee0cf717", "patri": "assets/pj/capas/cab_patri.webp?v=611b6c0a", "edo": "assets/pj/capas/cab_edo.webp?v=b80bab98", "carlos": "assets/pj/capas/cab_carlos.webp?v=39a36105", "porru": "assets/pj/capas/cab_porru.webp?v=82d7fee5", "adrian": "assets/pj/capas/cab_adrian.webp?v=97a18467", "rodri": "assets/pj/capas/cab_rodri.webp?v=6f5d9c4c", "juanpablo": "assets/pj/capas/cab_juanpablo.webp?v=51bcd137"}, "piel": {"arturo": [236, 140, 58], "fer": [240, 158, 71], "patri": [237, 149, 46], "edo": [200, 112, 32], "carlos": [228, 136, 54], "porru": [231, 157, 73], "adrian": [227, 150, 78], "rodri": [244, 169, 94], "juanpablo": [235, 164, 99]}, "piel_cuerpo": [252, 173, 121]}};
 var FACE = {porru:0, adrian:1, carlos:2, fer:3, edo:4, rodri:5, arturo:6, patri:7, juanpablo:8};
 var FACEN = M.facesN||7;
 var ICON = {

diff --git a/public/sw.js b/public/sw.js
@@ -1,5 +1,5 @@
 /* La Otra Comunidad · caché básica para que abra rápido y funcione con mala cobertura */
-var C='loc-v94';
+var C='loc-v95';
 self.addEventListener('install',function(e){ self.skipWaiting(); });
 self.addEventListener('activate',function(e){ e.waitUntil(caches.keys().then(function(k){ return Promise.all(k.filter(function(x){return x!==C;}).map(function(x){return caches.delete(x);})); }).then(function(){ return self.clients.claim(); })); });
 self.addEventListener('fetch',function(e){

diff --git a/tools/capas.py b/tools/capas.py
@@ -71,23 +71,26 @@ def cabeza(f):
     import cv2
     r,g,b=a[...,0],a[...,1],a[...,2]; teal=hm&(g>r+12)&(b>r+5)
     a=cv2.inpaint(a.astype(np.uint8),(teal*255).astype(np.uint8),5,cv2.INPAINT_TELEA).astype(int)
+    r,g,b=a[...,0],a[...,1],a[...,2]
+    morado=hm&(r>g)&(b>g+4)&~(b>r)   # reflejo del fondo magenta en el pelo: fuera el tono violeta
+    a[...,2]=np.where(morado,np.minimum(b,(g*0.85).astype(int)),b)
     r,g,b=a[...,0],a[...,1],a[...,2]; L=(0.3*r+0.59*g+0.11*b)
-    verde=hm&(g>=r-2)&~((r>200)&(g>200)&(b>200))   # nada de la cabeza debería ser más verde que rojo (salvo blancos)
+    verde=hm&(g>r+4)&~((r>200)&(g>200)&(b>200))   # nada de la cabeza debería ser más verde que rojo (salvo blancos)
     verde&=~((g>b+40)&(L<120)&(g>r+30))              # menos los ojos verdes
     a=np.where((verde&(L>=105))[...,None],np.dstack([L*1.18,L*0.92,L*0.70]),a)   # piel
     a=np.where((verde&(L<105))[...,None],np.dstack([L*1.02,L,L*0.96]),a)          # barba / pelo oscuro: gris (luego se rellena)
     r,g,b=a[...,0],a[...,1],a[...,2]; L=(0.3*r+0.59*g+0.11*b)
-    resto=hm&(g>r-6)&~(b>g+25)&~((r>200)&(g>200)&(b>200))   # cualquier resto verdoso (barba de Porru…) → gris neutro; ojos azules aparte
+    resto=hm&(g>r+4)&~(b>g+25)&~((r>200)&(g>200)&(b>200))   # cualquier resto verdoso (barba de Porru…) → gris neutro; ojos azules aparte
     import cv2
     # y además lo que antes se pasó a gris (era cian del maniquí): se rellena con los píxeles de alrededor (pelo, barba, piel)
-    gris=hm&(np.abs(r-g)<14)&(np.abs(g-b)<18)&(L>70)&(L<215)
+    gris=hm&(np.abs(r-g)<14)&(b>=r+2)&(L>100)&(L<215)   # solo grises fríos (restos del cian), no el pelo canoso
     a=cv2.inpaint(np.clip(a,0,255).astype(np.uint8),((resto|gris)*255).astype(np.uint8),4,cv2.INPAINT_TELEA).astype(int)
     rgba=np.dstack([a,np.where(hm,255,0)]).astype(np.uint8)[hy.min():neck_y+1,hx.min():hx.max()+1]
     face_x=hx.max()-hx.min()
     ct=ys.min(); cx_=np.nonzero(cyn[ct:ct+8].any(0))[0].mean()   # donde empieza el cuerpo cian, bajo la cabeza
     nx=cx_-hx.min()
     # CUELLO: se estira hacia abajo la franja de piel de la base de la cabeza (los píxeles del propio dibujo)
-    NECK=int(os.environ.get('CUELLO',4))   # px de juego
+    NECK=int(os.environ.get('CUELLO',2))   # px de juego
     G=S*MH/mh*float(os.environ.get('ESC_CAB',0.80))   # px de juego por px de esta imagen
     R=rgba.astype(int); al=R[...,3]>0; rr,gg,bb=R[...,0],R[...,1],R[...,2]
     piel=al&(rr>150)&(rr>gg+15)&(gg>bb+5)
